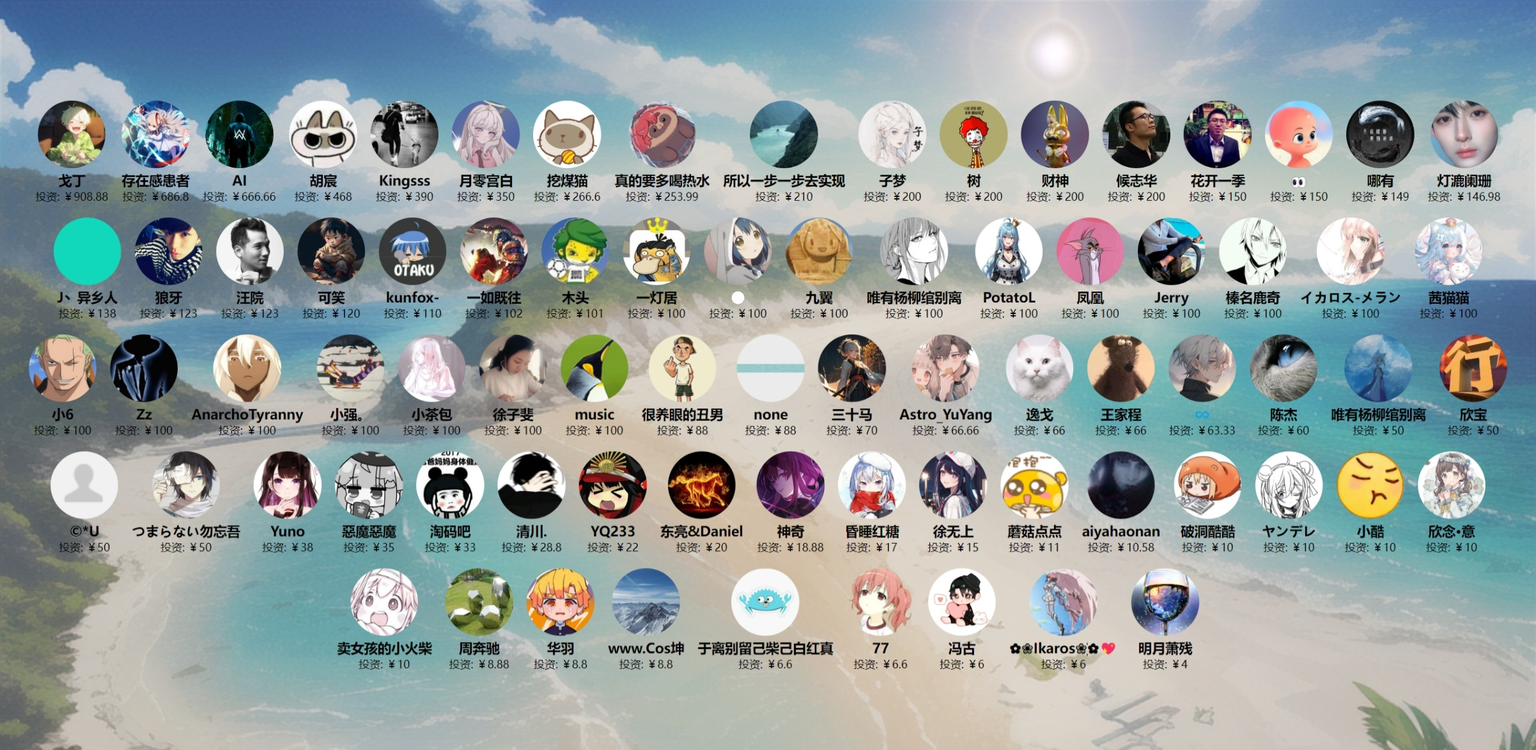
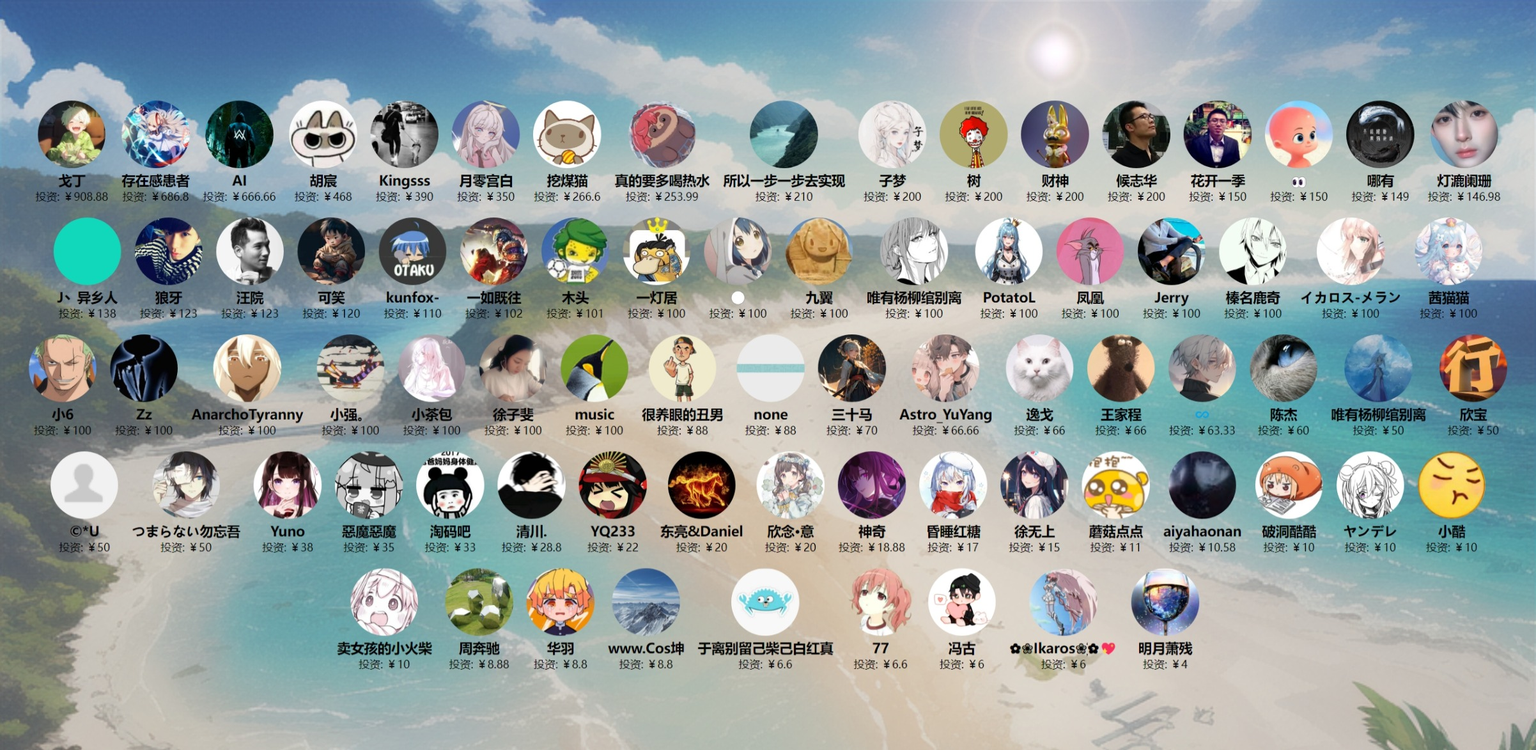
更新思维导图

Changed region(s): [[0.4682, 0.5831, 0.9675, 0.7366]]

diff --git a/docs/投资人/index.html b/docs/投资人/index.html
@@ -347,6 +347,11 @@
             amount: "￥20"
         },
         {
+            name: "欣念·意",
+            avatar: "https://images.cnblogs.com/cnblogs_com/ikaros-521/2328032/o_230723115608_QQ%E5%9B%BE%E7%89%8720230723195602.png",
+            amount: "￥20"
+        },
+        {
             name: "神奇",
             avatar: "https://images.cnblogs.com/cnblogs_com/ikaros-521/2328032/o_230818010903_QQ%E5%9B%BE%E7%89%8720230818090732.png",
             amount: "￥18.88"
@@ -384,11 +389,6 @@
         {
             name: "小酷",
             avatar: "https://images.cnblogs.com/cnblogs_com/ikaros-521/2328032/o_230723033013_QQ%E5%9B%BE%E7%89%8720230723112710.png",
-            amount: "￥10"
-        },
-        {
-            name: "欣念·意",
-            avatar: "https://images.cnblogs.com/cnblogs_com/ikaros-521/2328032/o_230723115608_QQ%E5%9B%BE%E7%89%8720230723195602.png",
             amount: "￥10"
         },
         {
